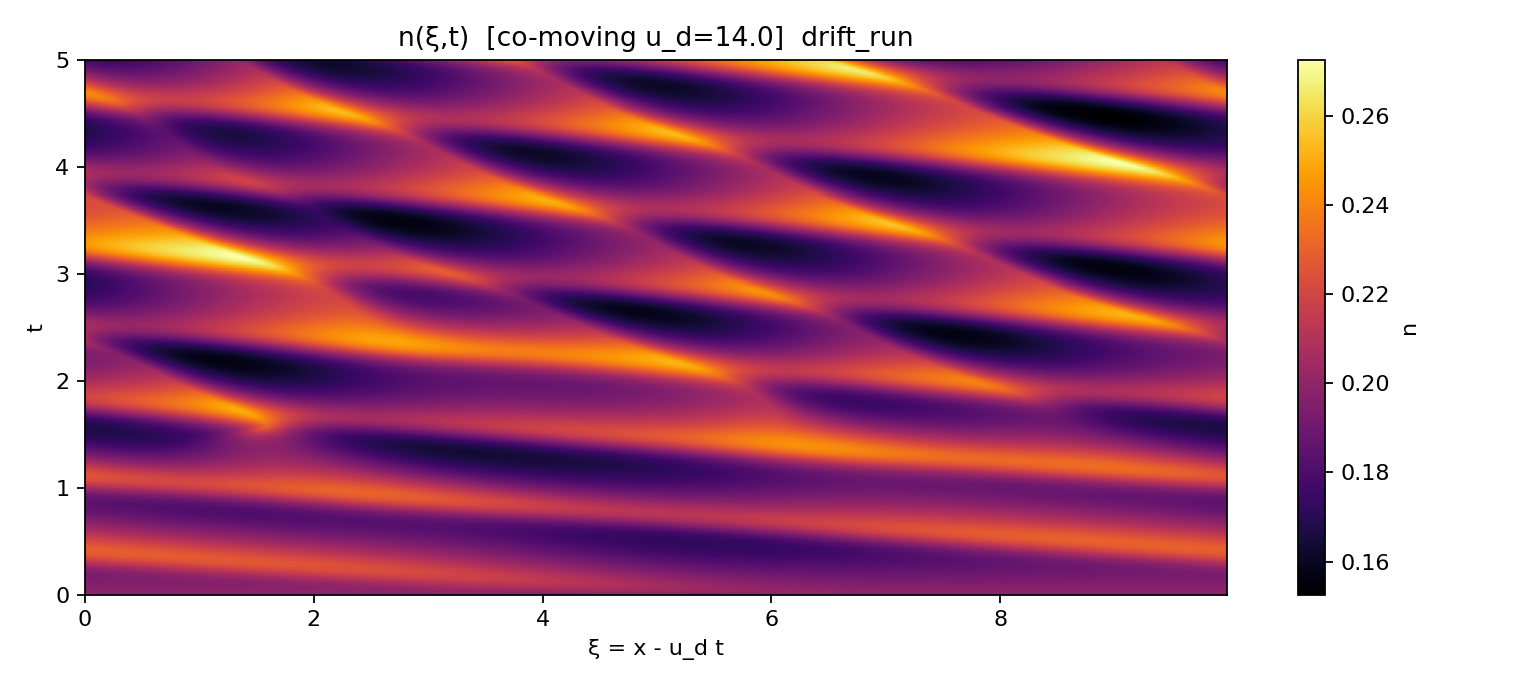
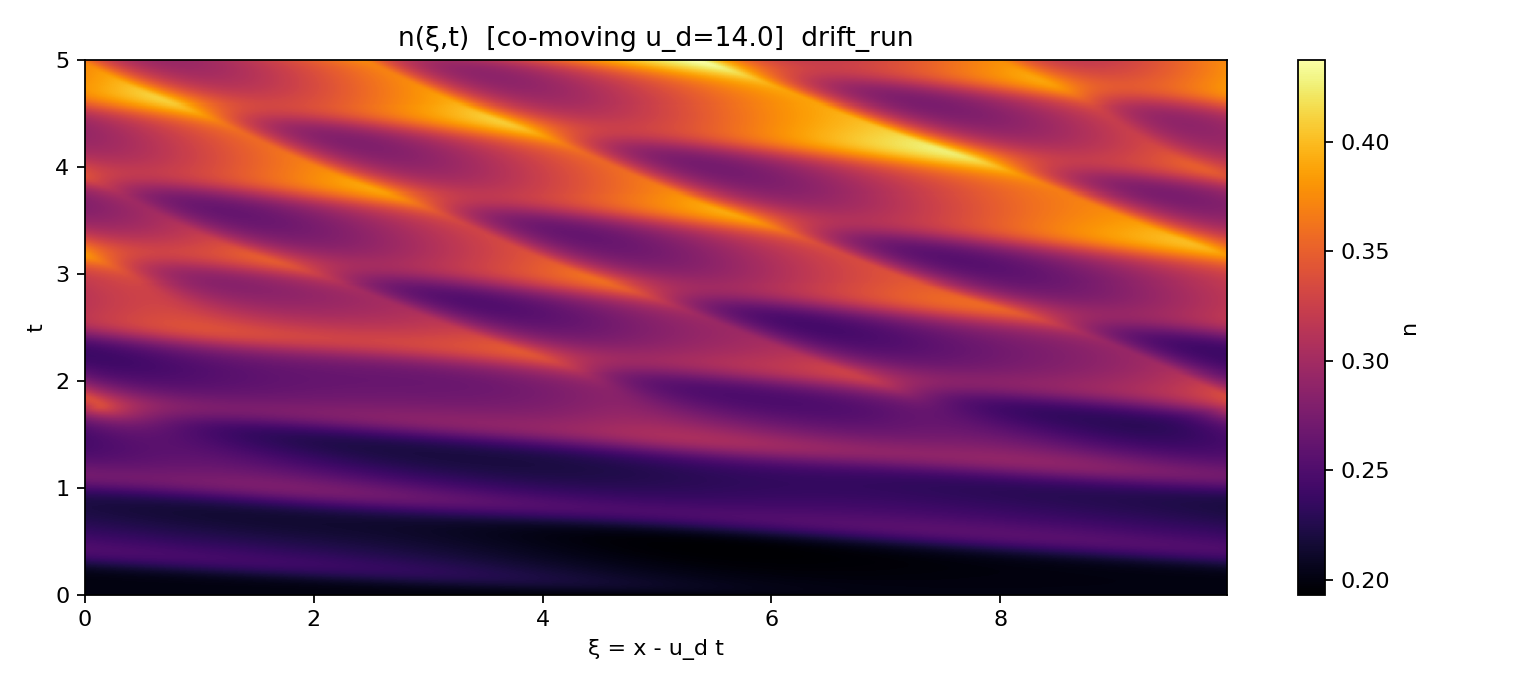
Delta n added

diff --git a/mass injection/mass injection.py b/mass injection/mass injection.py
@@ -105,7 +105,7 @@ def gamma_from_J(Jx):
 def S_injection(n, nbar, Jx, gamma):
     if par.source_model == "as_given":
         # print(f"nbar: {nbar}")
-        return Jx * nbar - gamma * (n - nbar*0)
+        return Jx * nbar - gamma * (n - nbar)
     elif par.source_model == "balanced":
         return Jx * nbar - gamma * n
     else:
